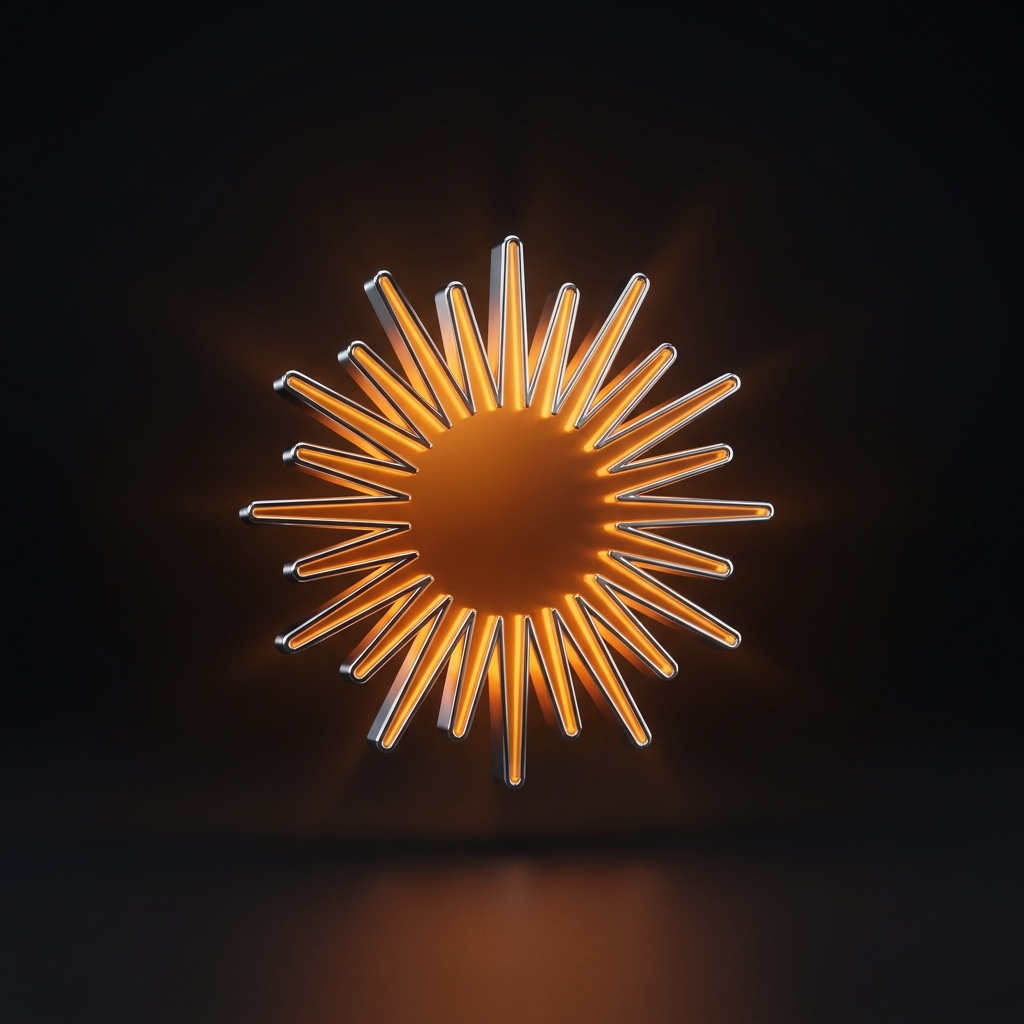
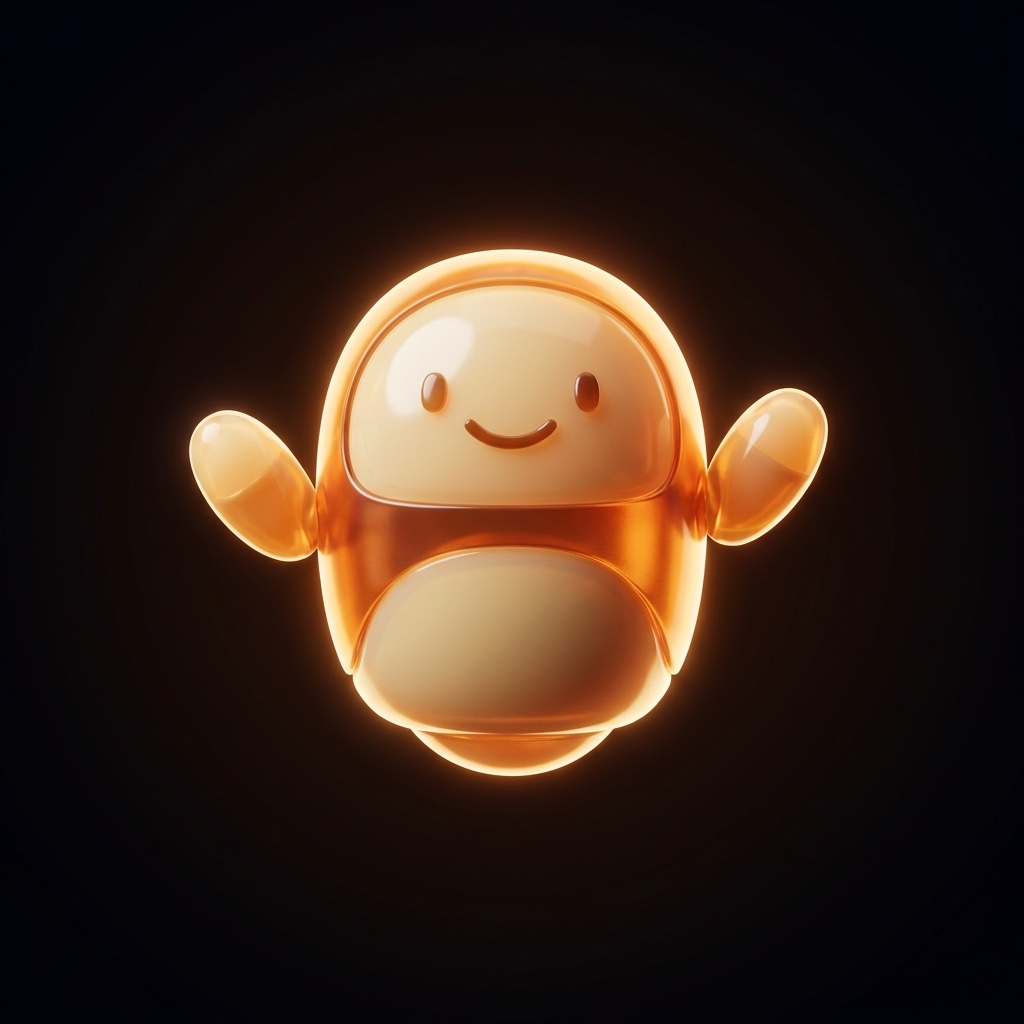
Motion: claudebot emblem, World Cup trophy, thumbs-up; drop bell
- Claude emblem is now the cute 3D "Claude bot" character (not the
  Anthropic logo) per request
- Removed the 3D Notification Bell effect (+ deleted fx-bell.mp4)
- Added 3D Championship Trophy as a featured "Trending now" effect —
  golden rotating World Cup–style trophy video (fx-trophy.mp4), $95
- Added 3D Like / Thumbs Up effect (CSS-animated, +1.2K count pop), $75
- Kept the 3D Subscribe Button
- Effects order: Trophy (featured) · Subscribe · Thumbs Up · Logo Intro · Lower Thirds

New assets: emblem-claude.jpeg (claudebot, replaces logo), fx-trophy.mp4.

Changed region(s): [[0.1562, 0.2188, 0.8438, 0.7812], [0.1875, 0.8438, 0.8125, 1.0]]

diff --git a/motion/index.html b/motion/index.html
@@ -131,6 +131,22 @@ nav{position:sticky;top:0;z-index:100;background:rgba(8,10,15,.88);backdrop-filt
 @keyframes ltgrow{0%,100%{width:28px;opacity:.55}50%{width:70px;opacity:1}}
 .lt-name{font-family:var(--display);font-size:34px;letter-spacing:.04em;line-height:.95}
 .lt-sub{font-size:11px;font-weight:700;letter-spacing:.16em;text-transform:uppercase;color:var(--muted);margin-top:8px}
+/* featured wide fx card (trophy) */
+.fx-card.wide{grid-column:1/-1;flex-direction:row;align-items:stretch}
+.fx-card.wide .fx-preview{width:56%;aspect-ratio:auto;min-height:300px}
+.fx-card.wide .fx-body{flex-direction:column;align-items:flex-start;justify-content:center;padding:34px 38px}
+.fx-card.wide .fx-body p{max-width:42ch;margin-top:10px}
+.fx-card.wide .fx-price-block{text-align:left;margin-top:22px}
+.fx-card.wide .fx-price-block .fx-buy{margin-top:12px}
+.fx-trending{display:inline-flex;align-items:center;gap:6px;background:linear-gradient(135deg,#ff7a00,#ff0044);color:#fff;font-size:11px;font-weight:700;letter-spacing:.09em;text-transform:uppercase;padding:5px 13px;border-radius:999px;margin-bottom:14px}
+@media(max-width:720px){.fx-card.wide{flex-direction:column}.fx-card.wide .fx-preview{width:100%;min-height:0;aspect-ratio:16/9}}
+/* CSS thumbs-up mockup */
+.like-mock{position:absolute;inset:0;display:flex;align-items:center;justify-content:center}
+.like-btn{width:88px;height:88px;border-radius:50%;background:var(--grad);display:grid;place-items:center;color:#0a0a12;box-shadow:0 14px 44px -8px rgba(162,89,255,.6);animation:likepop 2.3s ease-in-out infinite}
+.like-btn svg{width:42px;height:42px}
+@keyframes likepop{0%,60%,100%{transform:scale(1) rotate(0)}70%{transform:scale(1.18) rotate(-10deg)}82%{transform:scale(1.06) rotate(5deg)}}
+.like-count{position:absolute;left:50%;top:calc(50% - 82px);transform:translateX(-50%);font-family:var(--display);font-size:32px;letter-spacing:.04em;color:#fff;opacity:0;animation:countpop 2.3s ease-in-out infinite}
+@keyframes countpop{0%,62%{opacity:0;transform:translate(-50%,8px) scale(.8)}74%{opacity:1;transform:translate(-50%,0) scale(1)}100%{opacity:0;transform:translate(-50%,-6px) scale(.95)}}
 
 /* INCLUDES */
 .includes{padding:100px 40px;background:var(--bg2)}
@@ -236,8 +252,8 @@ footer{background:#04050a;padding:36px 40px;display:flex;align-items:center;just
       <a href="/contact/?s=emblem-chatgpt" class="emblem-buy">Order this emblem →</a>
     </div>
     <div class="emblem-card reveal">
-      <div class="emblem-thumb"><img src="../images/emblem-claude.jpeg" alt="Claude 3D logo emblem"></div>
-      <div class="emblem-info"><div><h3>Claude</h3><div class="sub">Anthropic · amber glow</div></div><div class="emblem-price grad">$75</div></div>
+      <div class="emblem-thumb"><img src="../images/emblem-claude.jpeg" alt="Claude bot 3D character emblem"></div>
+      <div class="emblem-info"><div><h3>Claude</h3><div class="sub">Anthropic · the Claude bot</div></div><div class="emblem-price grad">$75</div></div>
       <a href="/contact/?s=emblem-claude" class="emblem-buy">Order this emblem →</a>
     </div>
     <div class="emblem-card reveal">
@@ -280,6 +296,19 @@ footer{background:#04050a;padding:36px 40px;display:flex;align-items:center;just
   <div class="section-title reveal">Effects Creators<br><span class="grad">Actually Buy</span></div>
   <div class="fx-grid">
 
+    <!-- FEATURED: World Cup trophy (video) -->
+    <div class="fx-card wide reveal">
+      <div class="fx-preview"><video autoplay muted loop playsinline><source src="../images/fx-trophy.mp4" type="video/mp4"></video><div class="fx-tag">▶ Preview</div></div>
+      <div class="fx-body">
+        <div>
+          <div class="fx-trending">🔥 Trending now</div>
+          <h3>3D Championship Trophy</h3>
+          <p>A golden rotating trophy with confetti and stadium lights — built for World Cup, sports, gaming wins, awards and "winner" moments. Riding the biggest event of the summer.</p>
+        </div>
+        <div class="fx-price-block"><div class="fx-price grad">$95</div><a href="/contact/?s=fx-trophy" class="fx-buy">Order →</a></div>
+      </div>
+    </div>
+
     <!-- Subscribe button (CSS-animated mockup) -->
     <div class="fx-card reveal">
       <div class="fx-preview">
@@ -295,12 +324,18 @@ footer{background:#04050a;padding:36px 40px;display:flex;align-items:center;just
       </div>
     </div>
 
-    <!-- Notification bell (video) -->
+    <!-- Thumbs up / Like (CSS-animated mockup) -->
     <div class="fx-card reveal">
-      <div class="fx-preview"><video autoplay muted loop playsinline><source src="../images/fx-bell.mp4" type="video/mp4"></video><div class="fx-tag">▶ Preview</div></div>
+      <div class="fx-preview">
+        <div class="like-mock">
+          <div class="like-count">+1.2K</div>
+          <div class="like-btn"><svg viewBox="0 0 24 24" fill="currentColor"><path d="M2 21h3V9H2v12zM22 10c0-1.1-.9-2-2-2h-6.31l.95-4.57.03-.32c0-.41-.17-.79-.44-1.06L13.17 1 7.59 7.6C7.22 7.95 7 8.45 7 9v10c0 1.1.9 2 2 2h8c.83 0 1.54-.5 1.84-1.22l3.02-7.05c.09-.23.14-.47.14-.73v-1z"/></svg></div>
+        </div>
+        <div class="fx-tag">Animated</div>
+      </div>
       <div class="fx-body">
-        <div><h3>3D Notification Bell</h3><p>A ringing 3D bell sting for "turn on notifications" moments. Loop-ready with a transparent alpha version included.</p></div>
-        <div class="fx-price-block"><div class="fx-price grad">$75</div><br><a href="/contact/?s=fx-bell" class="fx-buy">Order →</a></div>
+        <div><h3>3D Like / Thumbs Up</h3><p>A satisfying animated thumbs-up with a like-count pop. Drop it in when you ask for the like — your most-used engagement cue.</p></div>
+        <div class="fx-price-block"><div class="fx-price grad">$75</div><br><a href="/contact/?s=fx-like" class="fx-buy">Order →</a></div>
       </div>
     </div>
 